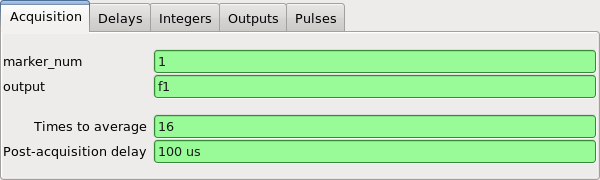
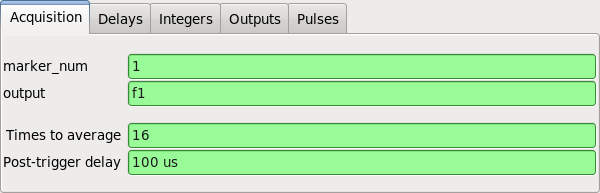
Renamed "post-acquisition" to "post-trigger" delay

diff --git a/spacq/gui/config/pulse.py b/spacq/gui/config/pulse.py
@@ -371,8 +371,8 @@ class AcqMarkerPanel(ParameterPanel):
 		self.Bind(wx.EVT_TEXT, self.OnTimesAverageChange, self.times_average_input)
 		self.Bind(wx.EVT_TEXT_ENTER, self.OnTimesAverageInput, self.times_average_input)
 
-		# Post-acquisition delay.
-		self.parameter_sizer.Add(wx.StaticText(self, label='Post-acquisition delay'), (self.cur_row, 0),
+		# Post-trigger delay.
+		self.parameter_sizer.Add(wx.StaticText(self, label='Post-trigger delay'), (self.cur_row, 0),
 				flag=wx.ALIGN_CENTER_VERTICAL|wx.ALIGN_RIGHT)
 		self.delay_input = wx.TextCtrl(self, style=wx.TE_PROCESS_ENTER)
 		self.parameter_sizer.Add(self.delay_input, (self.cur_row, 1), flag=wx.EXPAND)

diff --git a/docs/user/gui/config/pulse_program_config.rst b/docs/user/gui/config/pulse_program_config.rst
@@ -31,7 +31,7 @@ Acquisition
 * marker_num: The number of the marker of the AWG channel output used for the trigger.
 * output: The waveform output name.
 * Times to average: If this item is set to a value greater than 1, the oscilloscope is placed into "average" mode for the given number of waveforms, and the AWG is triggered that many times.
-* Post-acquisition delay: How long to wait after triggering the AWG. This delay occurs between individual waveforms when averaging.
+* Post-trigger delay: How long to wait after triggering the AWG. This delay occurs between individual waveforms when averaging.
 
 Delays, Integers, Pulses
 ========================
